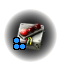
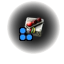
Remade graphics with larger overlays

diff --git a/.external/make_assets.py b/.external/make_assets.py
@@ -1,0 +1,33 @@
+import os
+
+from PIL import Image
+
+gfx_path = os.path.expandvars("%programfiles(x86)%/Steam/steamapps/common/Factorio/data/core/graphics")
+
+max_quality = 5
+max_quality_modules = 3
+bonuses = [0, 1, 2, 3, 5]
+
+qualities = [Image.open(f"quality-{i + 1}.png") for i in range(max_quality)]
+quality_modules = [Image.open(f"quality-module-{i + 1}.png") for i in range(max_quality_modules)]
+black_background = Image.open(os.path.join(gfx_path, "entity-info-dark-background.png"))
+nightvision = Image.open(os.path.join(gfx_path, "color_luts", "nightvision.png"))
+day = Image.open(os.path.join(gfx_path, "color_luts", "identity-lut.png"))
+
+for i, q in enumerate(qualities):
+    im = Image.new("RGBA", (64, 64), (0, 0, 0, 0))
+    scale = 32
+    im.alpha_composite(q.resize((scale, scale)), (0, 64 - scale))
+    im.save(f"quality-{i + 1}-overlay.png")
+
+for i, qm in enumerate(quality_modules):
+    for j, q in enumerate(qualities):
+        im = Image.new("RGBA", (64, 64), (0, 0, 0, 0))
+        im.alpha_composite(black_background, (7, 1))
+        im.alpha_composite(qm.resize((32, 32)), (18, 11))
+        im.alpha_composite(q.resize((16, 16)), (19, 25))
+        im.save(f"quality-module-{i + 1}@{j + 1}-overlay.png")
+
+for i, b in enumerate(bonuses):
+    im = Image.blend(nightvision, day, b / max(bonuses))
+    im.save(f"nv-quality-{i + 1}.png")
